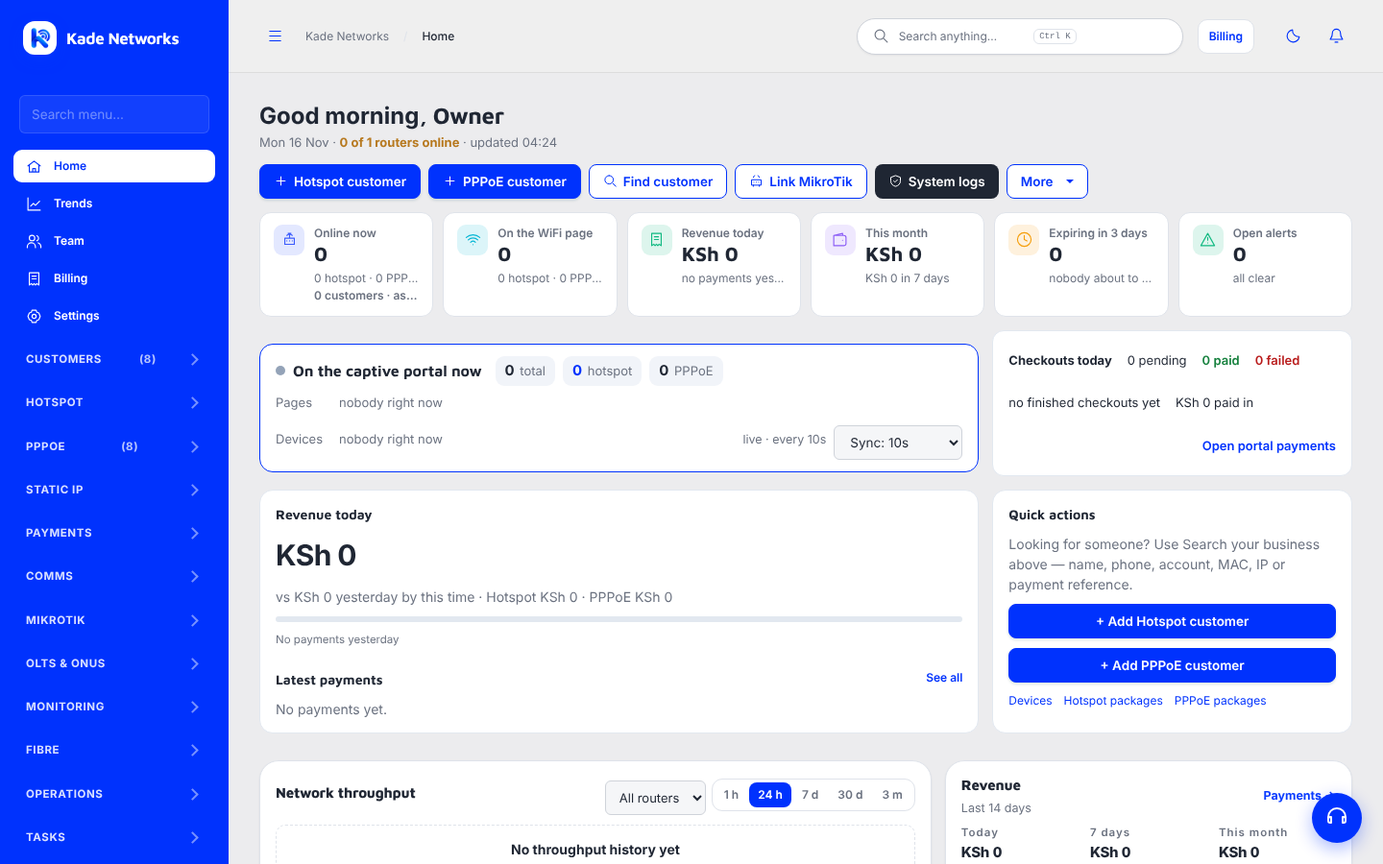
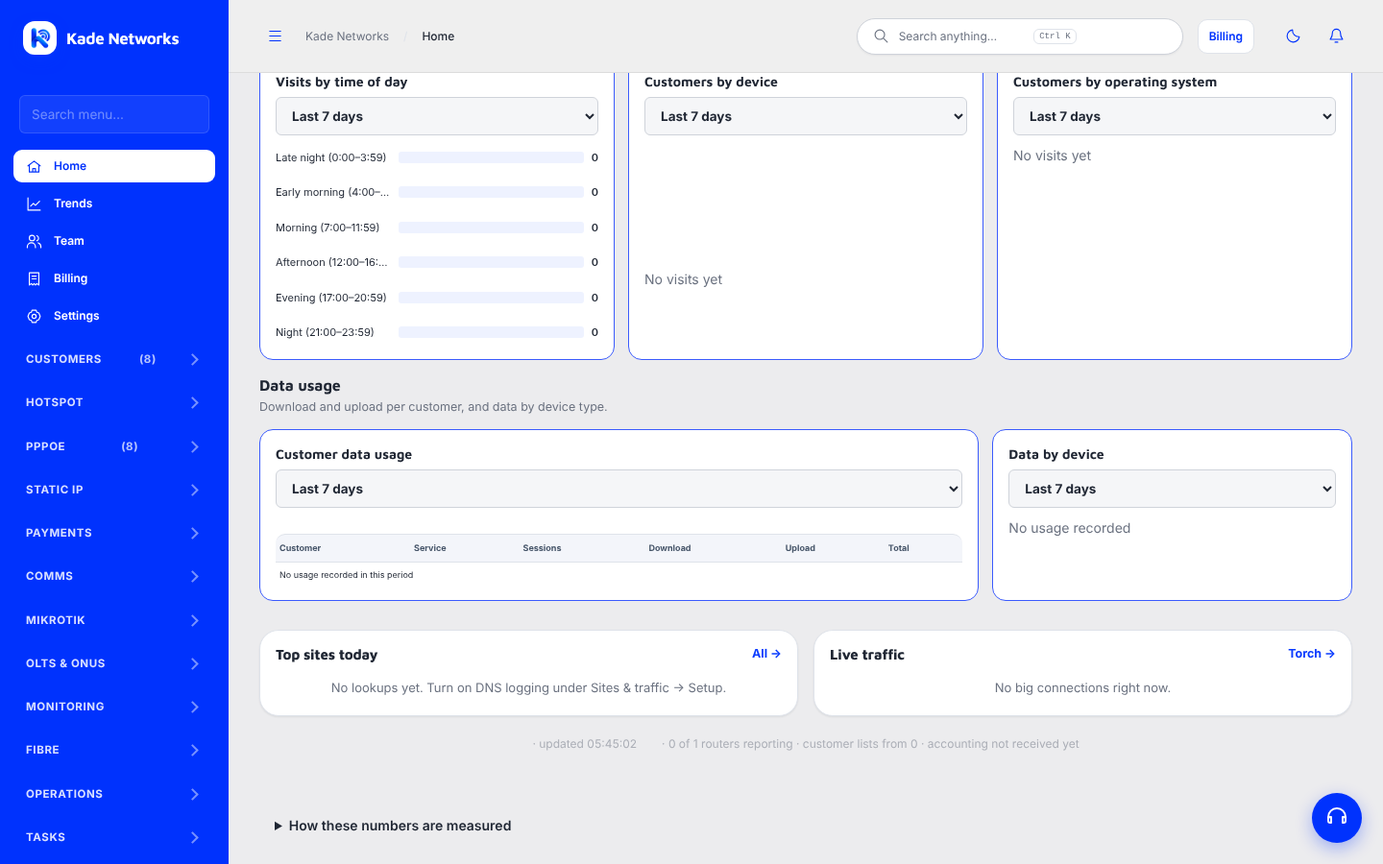
Behaviour/usage and fair-usage layouts like references, portal links and loading-screen spacing, 9px table text
Claude-Session: https://claude.ai/code/session_01KKr8ayuU9EzMLbJH3ARDi2

diff --git a/dist/ispmenu.js b/dist/ispmenu.js
@@ -130,14 +130,14 @@ const pages={
   $('#tr-days').onchange=e=>{f.days=Number(e.target.value);pages.trendsPage(id);};window.trUsage?.();
   // Hotspot fair usage: how far active capped bundles are through their data allowance.
   try{const u=await api('fair-usage');if(state.page!==id)return;const C={under30:'#c7d2fe',b30:'#60a5fa',b50:'#2563eb',b80:'#1e3a8a',limit:'#b42318'},mx=Math.max(1,...u.history.map(h=>h.b30+h.b50+h.b80+h.limit));
-   const sec=document.createElement('section');sec.className='card';sec.style.padding='16px 18px';
+   const sec=document.createElement('section');sec.className='card fu-wrap';sec.style.padding='16px 18px';
    sec.innerHTML=`<h2 style="margin-top:0">Hotspot fair usage</h2><p class="muted small">Active hotspot bundles on packages with a data cap, by how much of the allowance they have used. ${u.uncapped} bundle${u.uncapped===1?'':'s'} on packages without a cap ${u.uncapped===1?'is':'are'} not measured.</p>
     <div class="nb-tiles"><div class="nb-tile"><div><b>${u.inUse}</b><small>Bundles in use</small></div></div><div class="nb-tile"><div><b>${u.capped}</b><small>With a data cap</small></div></div>${u.bands.map(b=>`<div class="nb-tile"><span style="background:${C[b.key]};width:10px;height:10px;border-radius:3px"></span><div><b>${u.counts[b.key]}</b><small>${b.label}</small></div></div>`).join('')}</div>
     <p class="small"><span style="color:#b42318">■</span> ${u.counts.limit} bundle${u.counts.limit===1?'':'s'} reached the limit, across ${u.reachedCustomers} customer${u.reachedCustomers===1?'':'s'}.</p>
     ${(()=>{const M=new Map();for(const h of u.history){const k=h.date.slice(0,7),e=M.get(k)||{k,t50:0,t70:0,t90:0,tl:0};for(const x of ['t50','t70','t90','tl'])e[x]=Math.max(e[x],h[x]||0);M.set(k,e);}const ms=[...M.values()],m2=Math.max(1,...ms.map(e=>e.t50+e.t70+e.t90+e.tl)),T={t50:'#60a5fa',t70:'#2563eb',t90:'#1e3a8a',tl:'#b42318'};
      return `<h3>Hotspot Fair Usage Trend</h3><div class="nb-tiles">${[['t50','50–69%'],['t70','70–89%'],['t90','90–99%'],['tl','Limit reached']].map(([k,l])=>`<div class="nb-tile"><span style="background:${T[k]};width:10px;height:10px;border-radius:3px"></span><div><b>${u.tb[k]}</b><small>${l} now</small></div></div>`).join('')}</div>${ms.length?`<div class="fu-hist fu-month">${ms.map(e=>`<div title="${H(e.k)}: 50–69% ${e.t50}, 70–89% ${e.t70}, 90–99% ${e.t90}, limit ${e.tl}"><div class="fu-stack">${['tl','t90','t70','t50'].map(k=>`<i style="height:${e[k]/m2*100}%;background:${T[k]}"></i>`).join('')}</div><small>${H(new Date(e.k+'-01T12:00:00Z').toLocaleDateString('en-GB',{month:'short',timeZone:'UTC'}))}</small></div>`).join('')}</div>`:''}<p class="muted small">Monthly bars show the highest daily count; the trend builds up from the day this was switched on.</p>`;})()}
-    <h3>Top users hitting fair usage</h3>${table(['CUSTOMER','PACKAGE','USED','CAP'],u.top||[],t=>`<tr><td>${H(t.name)}<small class="muted"> ${H(t.username)}</small></td><td>${H(t.plan)}</td><td><b class="${t.percent>=100?'auth-bad':''}">${t.percent}%</b></td><td>${t.capMB>=1024?(t.capMB/1024).toFixed(1)+' GB':t.capMB+' MB'}</td></tr>`,'No customer has used half of their allowance yet.')}
-    <h3>Fair usage by package</h3><p class="muted small">Bundles past 30% of their allowance. Packages without a data cap are not shown.</p>${table(['PACKAGE','CAP','30–49%','50–79%','80–99%','LIMIT REACHED'],u.byPlan,p=>`<tr><td>${H(p.name)}</td><td>${p.capMB>=1024?(p.capMB/1024).toFixed(1)+' GB':p.capMB+' MB'}</td><td>${p.b30}</td><td>${p.b50}</td><td>${p.b80}</td><td>${p.limit?`<strong class="auth-bad">${p.limit}</strong>`:0}</td></tr>`,'No capped bundle has passed 30% yet.')}`;
+    <div class="fu-two"><div class="fu-card"><h3>Fair usage by package</h3><p class="muted small">Bundles past 30% of their allowance. Packages without a data cap are not shown.</p>${(()=>{const P=u.byPlan,pm=Math.max(1,...P.map(p=>p.b30+p.b50+p.b80+p.limit)),T={b30:'#60a5fa',b50:'#2563eb',b80:'#1e3a8a',limit:'#b42318'};return P.length?`<div class="fu-pkg">${P.slice(0,8).map(p=>`<div title="${H(p.name)}: 30–49% ${p.b30}, 50–79% ${p.b50}, 80–99% ${p.b80}, limit ${p.limit}"><div class="fu-stack">${['limit','b80','b50','b30'].map(k=>`<i style="height:${p[k]/pm*100}%;background:${T[k]}"></i>`).join('')}</div><small>${H(p.name)}</small></div>`).join('')}</div>`:'<p class="muted small">No capped bundle has passed 30% yet.</p>';})()}</div>
+    <div class="fu-card"><h3>Top users hitting fair usage</h3>${table(['CUSTOMER','PACKAGE','USED','DATA USED'],u.top||[],t=>`<tr><td>${H(t.name)}<small class="muted"> ${H(String(t.username||'').toUpperCase())}</small></td><td>${H(t.plan)}</td><td><b class="${t.percent>=100?'auth-bad':''}">${t.percent}%</b></td><td>${t.usedMB>=1024?(t.usedMB/1024).toFixed(1)+' GB':t.usedMB+' MB'}</td></tr>`,'No customer has used half of their allowance yet.')}</div></div>`;
    $('#im-body').appendChild(sec);}catch{}},
  async systemLogs(id){const f=pages.sl||(pages.sl={status:'open',level:'',category:'',q:''});
   shell('System Logs','Things that went wrong: router changes that failed, payments that did not complete, messages that were not delivered. Acknowledge an entry once it is handled.',`<button class="button secondary" id="sl-ackall" type="button">Acknowledge all shown</button> <label class="check-label" style="display:inline-flex;margin:0 8px"><input type="checkbox" id="sl-all"> Select all</label><button class="button secondary" id="sl-del" type="button" disabled>Delete selected</button>`);
@@ -236,7 +236,7 @@ const pages={
   const whiteInfo=()=>`<h3>Your portal address</h3><p class="muted">Customers reach the page at <code>${H(location.origin)}/portal/</code>. To use your own domain such as <code>wifi.yourcompany.com</code>, add it as a public hostname for this site in your Cloudflare tunnel (see <code>docs/ALWAYS-ON.md</code>), then use the new address in the router's walled garden and login page. netops does not change DNS for you.</p>`;
   $('#im-body').innerHTML=`<nav class="page-tabs">${[['loading','Loading screen'],['landing','Captive portal'],['status','Status page'],['terms','Terms & language'],['white','White label'],['api','Branding API']].map(([k,l])=>`<a href="#captive" data-cv-tab="${k}" class="${cv.tab===k?'active':''}">${l}</a>`).join('')}</nav>
   <div class="cv-grid"><form id="cv-form" class="card radius-form">${({loading:`<h2>Loading screen</h2><p class="muted">What a customer sees for a moment when they join your WiFi, while the portal opens. It runs before anything else, so it works on every device. The preview on the right shows exactly what they get.</p>
-   <div class="form-grid">${field('Loading screen',`<select name="loadingStyle">${[['spinner','Spinner'],['dots','Dots'],['pulse','Pulse'],['bounce','Bouncing dots'],['orbit','Orbit'],['wave','Wave bars'],['ring','Ring'],['spokes','Spokes'],['chase','Chase'],['grid','Grid'],['flip','Flip'],['dualarc','Dual arc'],['blast','Blast'],['wifi','Wi-Fi signal'],['logo','Business name (pulsing)'],['progress','Progress bar'],['none','None']].map(([k,l])=>`<option value="${k}" ${(c.loadingStyle||'spinner')===k?'selected':''}>${l}</option>`).join('')}</select>`)+field('Loading text',`<input name="loadingText" maxlength="40" value="${H(c.loadingText||'')}" placeholder="Business name">`)+field('Loading screen colours',`<label class="check-label"><input type="checkbox" name="loadingCustom" ${c.loadingBg||c.loadingFg?'checked':''}> <span>Use custom colours (otherwise it follows your design)</span></label><div class="form-grid"><label>Background<input type="color" name="loadingBg" value="${H(c.loadingBg||'#0a3cff')}"></label><label>Animation and text<input type="color" name="loadingFg" value="${H(c.loadingFg||'#ffffff')}"></label></div>`)}</div>
+   <div class="form-grid">${field('Loading screen',`<select name="loadingStyle">${[['spinner','Spinner'],['dots','Dots'],['pulse','Pulse'],['bounce','Bouncing dots'],['orbit','Orbit'],['wave','Wave bars'],['ring','Ring'],['spokes','Spokes'],['chase','Chase'],['grid','Grid'],['flip','Flip'],['dualarc','Dual arc'],['blast','Blast'],['wifi','Wi-Fi signal'],['logo','Business name (pulsing)'],['progress','Progress bar'],['none','None']].map(([k,l])=>`<option value="${k}" ${(c.loadingStyle||'spinner')===k?'selected':''}>${l}</option>`).join('')}</select>`)+field('Loading text',`<input name="loadingText" maxlength="40" value="${H(c.loadingText||'')}" placeholder="Business name">`)+field('Loading screen colours',`<label style="display:flex;gap:10px;align-items:flex-start;margin:4px 0 14px;line-height:1.35"><input type="checkbox" name="loadingCustom" style="margin-top:3px;flex:none" ${c.loadingBg||c.loadingFg?'checked':''}> <span>Use custom colours <small class="muted">(otherwise it follows your design)</small></span></label><div style="display:flex;gap:24px;flex-wrap:wrap;margin-bottom:6px"><label style="display:grid;gap:8px;width:auto">Background<input type="color" name="loadingBg" style="width:72px;height:40px;padding:3px;cursor:pointer" value="${H(c.loadingBg||'#0a3cff')}"></label><label style="display:grid;gap:8px;width:auto">Animation and text<input type="color" name="loadingFg" style="width:72px;height:40px;padding:3px;cursor:pointer" value="${H(c.loadingFg||'#ffffff')}"></label></div>`)}</div>
    ${field('Loading screen preview',`<div class="cv-loader-prev"><iframe id="cv-loader" title="Loading screen preview" loading="lazy" src="${loaderSrc(c)}"></iframe></div>`)}
    ${deployPanel('portal')}`,landing:`<h2>Captive portal</h2><p class="muted">The page customers see before they pay. Pick a design; changes show in the preview straight away and go live when you press Save.</p>
    <div class="cv-themes">${themes}</div>
@@ -657,7 +657,7 @@ const pages={
   $('#acs-addr').onsubmit=async e=>{e.preventDefault();try{await api('radius/settings','PUT',{acsPublicUrl:e.target.acsPublicUrl.value});toast('Saved');}catch(x){toast(x.message);}};
   wireAcsAuto();},
  async portalLinks(id){shell('Customer portal links','What your customers see. To see one customer\'s own dashboard, open their profile and press View portal (PPPoE customers open their account dashboard; hotspot customers open the landing page as they would see it).','');
-  $('#im-body').innerHTML=`<section class="card sites-panel"><h3>Public portal</h3><p class="muted">The page customers reach from your WiFi: packages, pay, and Access My Account.</p><p style="margin:10px 0 22px"><a class="button primary" href="/portal/" target="_blank" rel="noopener">Open customer portal</a></p><h3>A customer's dashboard</h3><p class="muted">Search for the customer, open their profile, then press <b>View portal</b>. You see exactly what they see; payments and package changes you make there act on their account.</p><p><button class="button secondary" id="pl-find">Find a customer</button></p></section>`;
+  $('#im-body').innerHTML=`<section class="card sites-panel" style="padding:24px 28px"><h3 style="margin-top:0">Public portal</h3><p class="muted">The page customers reach from your WiFi: packages, pay, and Access My Account.</p><p style="margin:10px 0 22px"><a class="button primary" href="/portal/" target="_blank" rel="noopener">Open customer portal</a></p><h3>A customer's dashboard</h3><p class="muted">Search for the customer, open their profile, then press <b>View portal</b>. You see exactly what they see; payments and package changes you make there act on their account.</p><p><button class="button secondary" id="pl-find">Find a customer</button></p></section>`;
   $('#pl-find').onclick=()=>{location.hash='#cust-table';};
   $('#im-body').insertAdjacentHTML('beforeend',`<section class="card sites-panel"><form id="pl-short" class="radius-form"><h3>Shorten a link</h3><p class="muted">Paste a long link on this site (an account link, the portal, a payment page) to get a short one for SMS. Self-service links sent from a customer's profile are shortened automatically.</p><div class="form-grid"><label>Long link<input name="url" required placeholder="https://…/portal/account.html?t=…"></label></div><button class="button primary">Shorten</button><p id="pl-out" class="pl-out" hidden></p></form></section>`);
   $('#pl-short').onsubmit=async e=>{e.preventDefault();try{const r=await api('shortlinks','POST',{url:e.target.url.value});const o=$('#pl-out');o.hidden=false;o.innerHTML=`<input readonly value="${H(r.url)}" id="pl-url"> <button type="button" class="button secondary" id="pl-copy">Copy</button> <span class="muted small">Works until ${H(new Date(r.expiresAt).toLocaleDateString())}</span>`;$('#pl-copy').onclick=()=>{navigator.clipboard?.writeText(r.url).then(()=>toast('Copied'),()=>{$('#pl-url').select();});};}catch(err){toast(err.message);}};},

diff --git a/dist/dashboard.js b/dist/dashboard.js
@@ -186,15 +186,16 @@ async function kdBehaviour(){const host=document.querySelector('#kd');if(!host||
   hrs=v.hours.map((n,i)=>`<g><title>${i}:00 – ${n} visit${n===1?'':'s'}</title><rect x="${i*14+1}" y="${(100-n/mx*96).toFixed(1)}" width="11" height="${(n/mx*96).toFixed(1)}" rx="2" fill="#3b5bfd"/></g>`).join('');
  const list=(a,c)=>a.length?a.slice(0,6).map((it,i)=>`<span><i style="background:${kdPalette[i%kdPalette.length]}"></i>${E(it.name)}: ${kc.fmtNum(it.amount)}</span>`).join(''):'<span>No visits yet</span>';
  const dm=Math.max(1,...x.usage.byDevice.map(d=>d.bytes));
- sec.innerHTML=`<div class="kd-x-head"><div><h2>Customer behaviour</h2><p>When customers open the WiFi page, and what they use.</p></div></div><div class="kd-x-grid">
-  <div class="kd-x-card"><h3>Visits by time of day ${sel('a')}</h3><div class="kd-x-bars"><svg viewBox="0 0 336 112" preserveAspectRatio="none" role="img" aria-label="Visits by hour">${hrs}<text x="0" y="111" font-size="9" fill="currentColor">0h</text><text x="150" y="111" font-size="9" fill="currentColor">12h</text><text x="318" y="111" font-size="9" fill="currentColor">23h</text></svg></div><div class="kd-x-key"><span>${kc.fmtNum(v.total)} visits</span></div></div>
-  <div class="kd-x-card"><h3>Customers by device ${sel('b')}</h3><div class="kd-x-donut" id="kd-b-d1"></div><div class="kd-x-key">${list(v.devices)}</div></div>
-  <div class="kd-x-card"><h3>Customers by OS ${sel('c')}</h3><div class="kd-x-donut" id="kd-b-d2"></div><div class="kd-x-key">${list(v.os)}</div></div></div>
+ const B=[['Late night',0,3],['Early morning',4,6],['Morning',7,11],['Afternoon',12,16],['Evening',17,20],['Night',21,23]].map(([l,a,b])=>({l,n:v.hours.slice(a,b+1).reduce((x,y)=>x+y,0),r:a+':00–'+b+':59'})),bm=Math.max(1,...B.map(b=>b.n)),
+  hb2=(arr,key,val)=>{const m=Math.max(1,...arr.map(val));return arr.map(it=>`<div class="kd-b-hb" title="${E(key(it))}: ${kc.fmtNum(val(it))}"><span>${E(key(it))}</span><i><b style="width:${Math.max(val(it)?2:0,val(it)/m*100)}%"></b></i><em>${kc.fmtNum(val(it))}</em></div>`).join('')||'<p class="muted">No visits yet</p>';},
+  vb=(arr)=>{const m=Math.max(1,...arr.map(x=>x.amount));return `<div class="kd-b-vb">${arr.slice(0,6).map(it=>`<div title="${E(it.name)}: ${kc.fmtNum(it.amount)}"><b style="height:${Math.max(3,it.amount/m*100)}%"></b><span>${E(it.name)}</span></div>`).join('')||'<p class="muted">No visits yet</p>'}</div>`;};
+ sec.innerHTML=`<div class="kd-x-head"><div><h2>Customer behaviour</h2><p>When customers open the WiFi page, and what they use.</p></div></div><div class="kd-b-three">
+  <div class="kd-x-card kd-b-card"><h3>Visits by time of day ${sel('a')}</h3>${hb2(B,b=>b.l+' ('+b.r+')',b=>b.n)}</div>
+  <div class="kd-x-card kd-b-card"><h3>Customers by device ${sel('b')}</h3>${vb(v.devices)}</div>
+  <div class="kd-x-card kd-b-card"><h3>Customers by operating system ${sel('c')}</h3>${hb2(v.os.slice(0,8),o=>o.name,o=>o.amount)}</div></div></div>
  <div class="kd-x-head"><div><h2>Data usage</h2><p>Download and upload per customer, and data by device type.</p></div></div><div class="kd-x-grid kd-b-two">
-  <div class="kd-x-card kd-b-wide"><h3>Customer data usage ${sel('d')}</h3><div class="table-wrap"><table class="data-table kd-b-tab"><thead><tr><th>Customer</th><th>Service</th><th>Sessions</th><th>Download</th><th>Upload</th><th>Total</th></tr></thead><tbody>${x.usage.customers.map(c=>`<tr><td>${E(c.name)}<small class="muted"> ${E(c.username)}</small></td><td>${E(c.service)}</td><td>${c.sessions}</td><td>${E(kc.fmtBytes(c.down))}</td><td>${E(kc.fmtBytes(c.up))}</td><td><b>${E(kc.fmtBytes(c.total))}</b></td></tr>`).join('')||'<tr><td colspan="6">No usage recorded in this period</td></tr>'}</tbody></table></div></div>
-  <div class="kd-x-card"><h3>Data by device</h3>${x.usage.byDevice.length?x.usage.byDevice.map(d=>`<div class="kd-x-hb" title="${E(d.name)}: ${E(kc.fmtBytes(d.bytes))}"><span>${E(d.name)}</span><i style="width:${Math.max(3,d.bytes/dm*100)}%"></i><b>${E(kc.fmtBytes(d.bytes))}</b></div>`).join(''):'<p class="muted">No usage recorded</p>'}</div></div>`;
- const col=a=>a.slice(0,6).map((it,i)=>({label:it.name,value:it.amount,color:kdPalette[i%kdPalette.length]}));
- if(v.devices.length)kc.donut(sec.querySelector('#kd-b-d1'),col(v.devices),{size:150,stroke:20,center:kc.fmtNum(v.total),sub:'visits'});if(v.os.length)kc.donut(sec.querySelector('#kd-b-d2'),col(v.os),{size:150,stroke:20,center:kc.fmtNum(v.total),sub:'visits'});
+  <div class="kd-x-card kd-b-card kd-b-wide"><h3>Customer data usage ${sel('d')}</h3><div class="table-wrap"><table class="data-table kd-b-tab"><thead><tr><th>Customer</th><th>Service</th><th>Sessions</th><th>Download</th><th>Upload</th><th>Total</th></tr></thead><tbody>${x.usage.customers.map(c=>`<tr><td>${E(c.name)}<small class="muted"> ${E(c.username)}</small></td><td>${E(c.service)}</td><td>${c.sessions}</td><td>${E(kc.fmtBytes(c.down))}</td><td>${E(kc.fmtBytes(c.up))}</td><td><b>${E(kc.fmtBytes(c.total))}</b></td></tr>`).join('')||'<tr><td colspan="6">No usage recorded in this period</td></tr>'}</tbody></table></div></div>
+  <div class="kd-x-card kd-b-card"><h3>Data by device ${sel('e')}</h3>${x.usage.byDevice.length?x.usage.byDevice.map(d=>`<div class="kd-x-hb" title="${E(d.name)}: ${E(kc.fmtBytes(d.bytes))}"><span>${E(d.name)}</span><i style="width:${Math.max(3,d.bytes/dm*100)}%"></i><b>${E(kc.fmtBytes(d.bytes))}</b></div>`).join(''):'<p class="muted">No usage recorded</p>'}</div></div>`;
  for(const el of sec.querySelectorAll('[data-beh]'))el.onchange=e=>{kd.behPeriod=e.target.value;kdBehaviour();};}
 async function kdExtra(){const host=document.querySelector('#kd');if(!host)return;let sec=document.querySelector('#kd-extra');
  if(!sec){sec=document.createElement('section');sec.id='kd-extra';sec.className='kd-extra';(document.querySelector('#kd-rb')||host.lastElementChild).after(sec);}

diff --git a/dist/index.html b/dist/index.html
@@ -1,5 +1,5 @@
 <!doctype html>
-<html lang="en"><head><meta charset="utf-8"><meta name="viewport" content="width=device-width,initial-scale=1"><title>Kade Networks</title><meta name="description" content="Manage routers, optical networks, field work and network operations."><link rel="stylesheet" href="/styles.css?v=2"><link rel="stylesheet" href="/operations.css?v=2"><link rel="stylesheet" href="/workspace.css?v=2"><link rel="stylesheet" href="/customers.css?v=2"><link rel="stylesheet" href="/subscriber-monitoring.css?v=20261020-2"><link rel="preload" href="/fonts/maven-pro-500.woff2" as="font" type="font/woff2" crossorigin><link rel="stylesheet" href="/theme.css?v=9"><link rel="stylesheet" href="/dashboard.css?v=14"><link rel="stylesheet" href="/mobile.css?v=27"><link rel="stylesheet" href="/kade-blue.css?v=20261116d"><link rel="icon" type="image/png" href="/img/favicon.png"><script src="/icons.js?v=7" defer></script><script src="/permissions.js" defer></script><script src="/workspace.js?v=20261115e" defer></script><script src="/tr069.js?v=4" defer></script><script src="/router-agent.js" defer></script><script src="/customers.js?v=2" defer></script><script src="/subscriber-monitoring.js?v=20261020-2" defer></script><script src="/sites.js?v=3" defer></script><script src="/radius.js?v=20261115i" defer></script><script src="/packages.js?v=10" defer></script><script src="/ispman.js?v=3" defer></script><script src="/ispmenu.js?v=20261116d" defer></script><script src="/kade-tables.js?v=11" defer></script><script src="/mobile.js?v=1" defer></script><script src="/oltdetect.js?v=3" defer></script><script src="/charts.js?v=3" defer></script><script src="/dashboard.js?v=20261116d" defer></script></head>
+<html lang="en"><head><meta charset="utf-8"><meta name="viewport" content="width=device-width,initial-scale=1"><title>Kade Networks</title><meta name="description" content="Manage routers, optical networks, field work and network operations."><link rel="stylesheet" href="/styles.css?v=2"><link rel="stylesheet" href="/operations.css?v=2"><link rel="stylesheet" href="/workspace.css?v=2"><link rel="stylesheet" href="/customers.css?v=2"><link rel="stylesheet" href="/subscriber-monitoring.css?v=20261020-2"><link rel="preload" href="/fonts/maven-pro-500.woff2" as="font" type="font/woff2" crossorigin><link rel="stylesheet" href="/theme.css?v=9"><link rel="stylesheet" href="/dashboard.css?v=14"><link rel="stylesheet" href="/mobile.css?v=27"><link rel="stylesheet" href="/kade-blue.css?v=20261116f"><link rel="icon" type="image/png" href="/img/favicon.png"><script src="/icons.js?v=7" defer></script><script src="/permissions.js" defer></script><script src="/workspace.js?v=20261115e" defer></script><script src="/tr069.js?v=4" defer></script><script src="/router-agent.js" defer></script><script src="/customers.js?v=2" defer></script><script src="/subscriber-monitoring.js?v=20261020-2" defer></script><script src="/sites.js?v=3" defer></script><script src="/radius.js?v=20261115i" defer></script><script src="/packages.js?v=10" defer></script><script src="/ispman.js?v=3" defer></script><script src="/ispmenu.js?v=20261116f" defer></script><script src="/kade-tables.js?v=11" defer></script><script src="/mobile.js?v=1" defer></script><script src="/oltdetect.js?v=3" defer></script><script src="/charts.js?v=3" defer></script><script src="/dashboard.js?v=20261116f" defer></script></head>
 <body><a class="skip" href="#main">Skip to content</a><div id="auth-screen" class="auth-screen"><div class="boot-spin" role="status" aria-label="Loading"></div></div>
 <div id="application" hidden><aside class="sidebar" id="sidebar" aria-label="Main navigation"><a class="brand" href="#dashboard"><span class="brand-mark">n<span>·</span></span><span class="brand-label">Kade Networks</span></a><button class="workspace" id="workspace-link"><span class="workspace-icon">N</span><span class="nav-label" id="workspace-label"></span></button><nav id="navigation"></nav><div class="sidebar-bottom"><button class="profile" id="profile-link"><span class="avatar" id="avatar">NH</span><span class="nav-label" id="profile-label"></span></button><button class="logout" id="logout">Sign out</button></div></aside><button id="scrim" class="scrim" aria-label="Close navigation" hidden></button><div class="shell"><header class="topbar"><button class="icon-button" id="menu-toggle" aria-label="Toggle navigation"></button><div class="breadcrumbs">Kade Networks <span>/</span><strong id="breadcrumb">Dashboard</strong></div><button class="search-trigger" id="search-trigger"><span id="search-icon"></span><span>Search anything…</span><kbd>Ctrl K</kbd></button><a id="wallet-header" class="wallet-button" href="#wallet">Billing</a><div class="topbar-actions"><button class="icon-button" id="theme-toggle" aria-label="Toggle theme"></button><a class="icon-button" href="#notifications" aria-label="View alerts" id="notification-button"></a></div></header><main id="main" tabindex="-1"></main><footer>Network Hub <span>•</span> <span id="footer-workspace"></span><span>•</span><span id="sync-status" role="status">Connecting</span></footer></div></div>
 <dialog id="editor" class="modal job-modal"><form id="editor-form"><div class="modal-heading"><h2 id="editor-title"></h2><button class="icon-button" type="button" data-close aria-label="Close dialog">×</button></div><p class="muted" id="editor-description"></p><div id="editor-fields"></div><p id="editor-error" class="form-error" role="alert"></p><div class="modal-footer"><button type="button" class="button secondary" data-close>Cancel</button><button class="button primary" type="submit">Save</button></div></form></dialog>

diff --git a/dist/kade-blue.css b/dist/kade-blue.css
@@ -1161,3 +1161,13 @@ html body table.data-table td{padding:6px 4px!important}
 html body table.data-table td .ic-btn,html body table.data-table td .ra-btn{width:26px!important;height:26px!important;min-width:0!important}
 html body table.data-table td .status,html body table.data-table td .pill,html body table.data-table td .badge{padding:2px 5px!important;font-size:10px!important}}
 @media(min-width:1100px) and (max-width:1399px){html body table.data-table td{overflow-wrap:anywhere!important}html body table.data-table th{white-space:normal!important}}
+html body table.data-table th,html body table.data-table td,html body table.data-table td *{font-size:9px!important}
+.kd-b-three{display:grid;grid-template-columns:repeat(3,minmax(0,1fr));gap:14px}@media(max-width:980px){.kd-b-three{grid-template-columns:1fr}}
+.kd-b-card{border:1.5px solid #3b5bfd!important}
+.kd-b-hb{display:grid;grid-template-columns:minmax(0,120px) minmax(0,1fr) auto;gap:8px;align-items:center;font-size:11px;margin:5px 0}.kd-b-hb span{overflow:hidden;text-overflow:ellipsis;white-space:nowrap}.kd-b-hb i{height:12px;background:#eef2ff;border-radius:3px;display:block}.kd-b-hb i b{display:block;height:100%;background:#0b3cff;border-radius:3px}.kd-b-hb em{font-style:normal;font-weight:600}
+.kd-b-vb{display:flex;gap:14px;align-items:flex-end;height:150px;padding-top:8px}.kd-b-vb>div{flex:1;display:flex;flex-direction:column;justify-content:flex-end;align-items:center;height:100%;min-width:0}.kd-b-vb b{display:block;width:100%;background:#0b3cff;border-radius:3px 3px 0 0}.kd-b-vb span{font-size:10px;margin-top:4px;max-width:100%;overflow:hidden;text-overflow:ellipsis;white-space:nowrap}
+.fu-wrap{border:1.5px solid #3b5bfd!important}.fu-two{display:grid;grid-template-columns:minmax(0,1fr) minmax(0,1fr);gap:14px;margin-top:14px}@media(max-width:980px){.fu-two{grid-template-columns:1fr}}
+.fu-card{border:1.5px solid #3b5bfd;border-radius:12px;padding:12px 14px}.fu-card h3{margin:0 0 6px;color:#0b3cff}
+.fu-pkg{display:flex;gap:14px;align-items:flex-end;height:200px;padding-top:8px}.fu-pkg>div{flex:1;min-width:0;height:100%;display:flex;flex-direction:column;justify-content:flex-end;align-items:center}.fu-pkg .fu-stack{width:100%;height:90%;display:flex;flex-direction:column;justify-content:flex-end}.fu-pkg .fu-stack i{display:block;width:100%}.fu-pkg small{font-size:10px;margin-top:4px;max-width:100%;overflow:hidden;text-overflow:ellipsis;white-space:nowrap}
+.kd-b-card h3{display:flex;justify-content:space-between;align-items:center;gap:8px;flex-wrap:wrap}.kd-b-card h3 select{width:auto!important;float:none!important;font-size:11px;padding:3px 8px}
+html body table.kd-b-tab thead th{background:#0b3cff!important;color:#fff!important}
